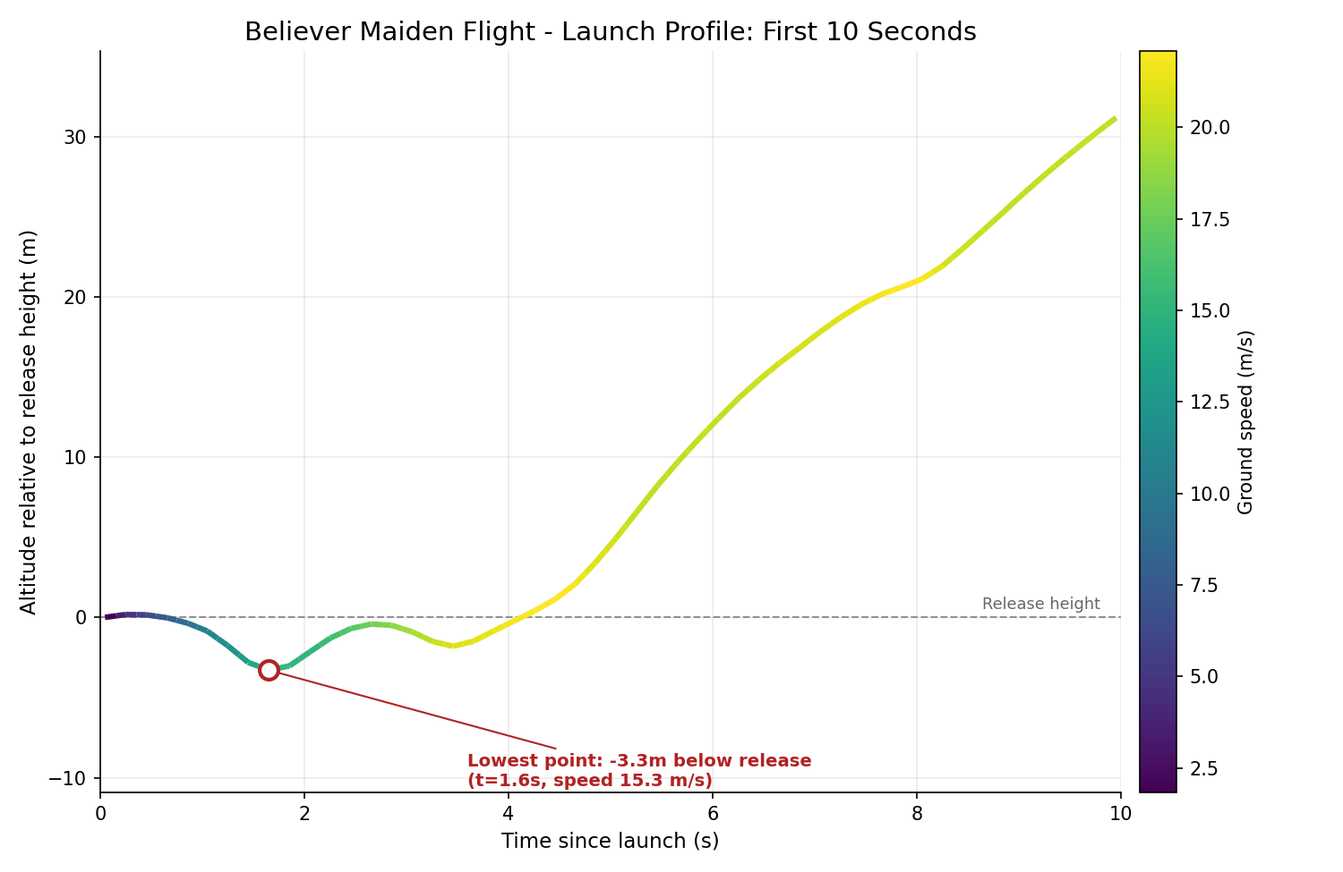
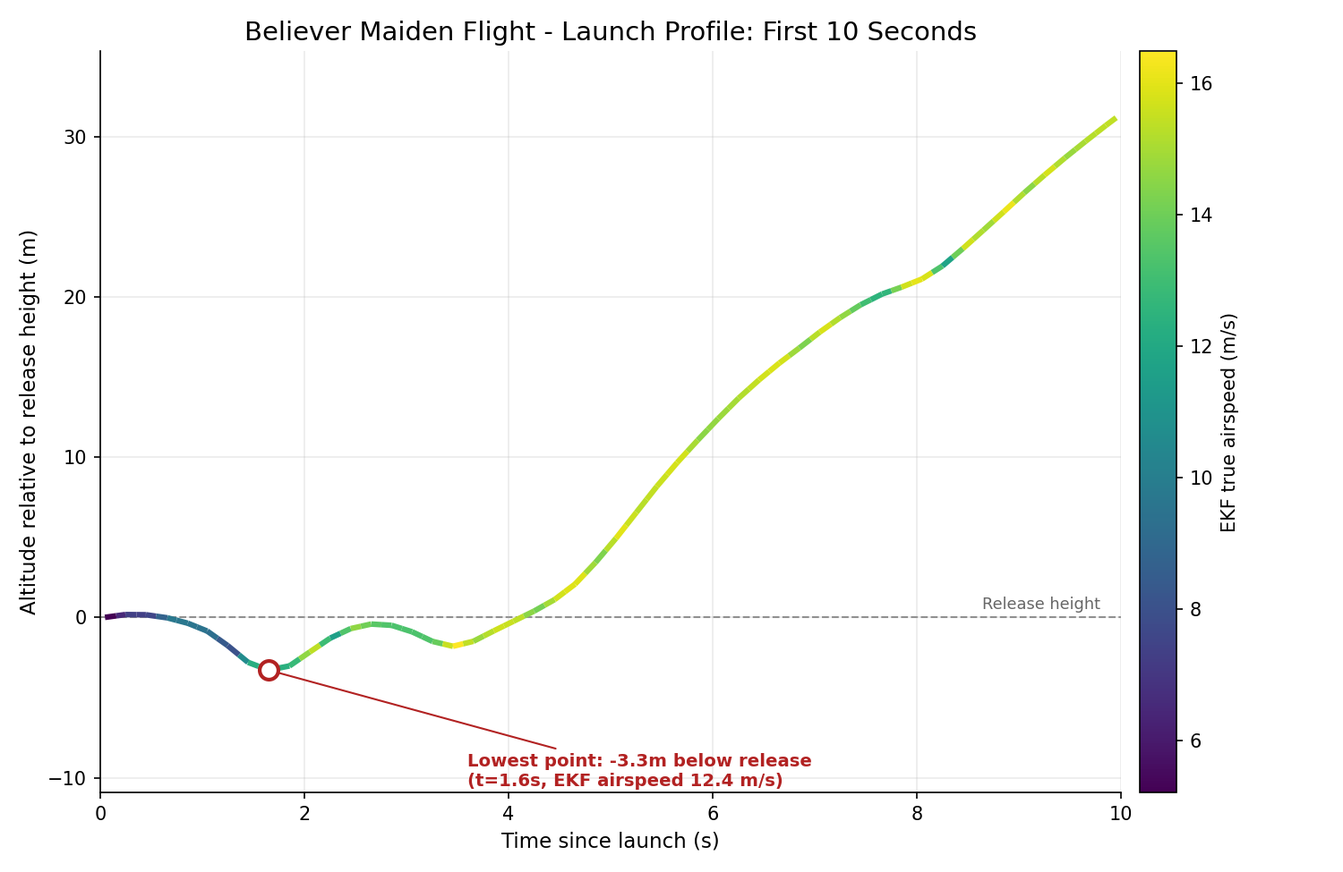
Rule out a cut airspeed line, fix the real cause, add capacity test as a blocker
Investigated Julian's hypothesis that a cut differential-pressure line
explained the maiden flight's near-total airspeed-invalid readings.
The raw sensor data rules it out: recomputed airspeed directly from
the raw pressure readings is physically sane for the entire flight,
with none of the near-zero/negative/stuck signature a cut or blocked
line would produce.

Traced the real cause against PX4's own source: the validator tripped
once at t=49.0s (16.4s after takeoff, likely its load-factor check
during the high-G pull-up recovering from the launch sag) and never
recovered because ASPD_FS_T_START was at PX4's own -1 default, which
disables in-flight re-enabling of the sensor entirely once it trips.
Decided to set it to 2s instead - documented in the parameter change
log as decided but not yet applied. Corrected the test report, open
items, and test plan, which had all called this a hardware fault
needing physical inspection.

Regenerated both launch-profile plots using EKF true airspeed instead
of ground speed, now that we know it was valid for the whole 10s
window and most of the 20s one - the 20s version marks exactly where
the validator latched invalid, tying the two findings together.

Also added PWR-06 (complete the battery capacity test, set
BAT1_CAPACITY) as a new critical flight-readiness blocker, per Julian,
recording the maiden flight's actual 3.92 Ah discharge as sizing
context.

diff --git a/docs/engineering/test-reports/2026-10-11-maiden-flight.md b/docs/engineering/test-reports/2026-10-11-maiden-flight.md
@@ -16,7 +16,7 @@ Per Julian's debrief: the launch itself was marginal (hand-launched from a hill,
 
 The flight's most important finding is operational, not aerodynamic: the GCS telemetry link (RFD900x) dropped out at least 15 times over the 24.8-minute flight, three of them longer than the 10-second data-link-loss failsafe timeout (`COM_DL_LOSS_T`). The aircraft launched with `NAV_DLL_ACT` already reverted to 0 (Disabled) rather than the 2 (Return) set on 2026-10-02 under RF-06 - confirmed directly from the log's embedded parameter set - which is why none of those dropouts triggered an unwanted RTL. Had RF-06's setting still been live, at least three automatic RTLs would very likely have fired mid-flight despite the pilot holding full manual RC control throughout. This is documented in full in `docs/operations/Pixhawk Parameter Backup/parameter-change-log.md`.
 
-A second significant finding: the airspeed sensor (differential pressure / pitot) reported invalid readings for almost the entire flight (`health_and_arming_checks` logged "Preflight Fail: Airspeed invalid" repeatedly, and only 2.9% of `airspeed_validated` samples fell in a physically plausible range). TECS-dependent modes that rely on airspeed (Altitude mode, the Cruise Efficiency Sweep's hands-off points) were likely operating on degraded or fallback airspeed estimates for this flight. Ground speed from GPS was used in this report instead, where airspeed data was needed.
+A second significant finding: `airspeed_validated` was invalid for almost the entire flight (only 2.9% of samples in a physically plausible range). This is not a sensor or pitot-line fault - the raw differential-pressure readings were physically sane for the whole flight - but a PX4 validator that latched the sensor as failed after one trip 16.4s after takeoff and, by default, never let it recover in flight (see Airspeed validator latched invalid below). TECS-dependent modes that rely on airspeed (Altitude mode, the Cruise Efficiency Sweep's hands-off points) were likely operating on degraded or fallback airspeed estimates for this flight regardless of the root cause. Ground speed from GPS was used in this report instead, where airspeed data was needed.
 
 The in-flight PID auto-tune (Phase D) was attempted twice and succeeded on the second attempt, committing new roll- and pitch-rate gains partway through the flight (see Findings).
 
@@ -55,9 +55,9 @@ Per Julian's debrief: the launch was hand-launched from a hill at the BNEMAC fie
 
 The log backs this up directly. Using the moment altitude first leaves the ground as t=0, the aircraft sagged to **3.3m below release height at t=1.6s**, recovered most of the way, sagged a second, shallower time (~1.8m) around t=3.5s, and only settled into a sustained climb from about t=4s:
 
-![Launch profile: altitude vs. time, coloured by ground speed, first 10 seconds](../../assets/test-plots/launch-profile-first-10s-2026-10-11.png)
+![Launch profile: altitude vs. time, coloured by EKF true airspeed, first 10 seconds](../../assets/test-plots/launch-profile-first-10s-2026-10-11.png)
 
-The dip coincides with the lowest ground speed of the window (15.3 m/s at the lowest point) - a real, measurable margin above stall during the few seconds right after release, not just a visual impression.
+The dip coincides with the lowest airspeed of the window - **12.4 m/s at the lowest point**, only 1.4 m/s above `FW_AIRSPD_STALL` (11 m/s). This window is entirely within the time the airspeed validator was still trusting the sensor (see Airspeed validator latched invalid below), so this is EKF-fused airspeed, not a ground-speed proxy - a real, measurably thin margin above stall during the few seconds right after release, not just a visual impression.
 
 The climb-rate figure below (about 1.0 m/s average from takeoff) is consistent with this account - a marginal, not comfortable, margin above stall during the initial climb-out. **Decision (Julian): future flights will use a launch dolly instead of a hand launch** - tracked in `context/open-items.md` and cross-referenced against the existing launch-dolly requirements document (`docs/engineering/requirements/launch-dolly-requirements.md`).
 
@@ -73,9 +73,15 @@ GPS ground speed (`vehicle_local_position` vx/vy) ranged from 0 (on the ground) 
 
 Pack voltage: 24.97V at arm, 22.99V at disarm (minimum 22.38V in flight), consistent with `BAT1_V_EMPTY` (3.2 V/cell x 6 = 19.2V) never being approached. Reported remaining charge fell from 100% to 74%. Peak current draw was 33.5A, mean 9.4A.
 
-### Airspeed sensor fault
+### Airspeed validator latched invalid - not a hardware fault
 
-`health_and_arming_checks` logged "Preflight Fail: Airspeed invalid" repeatedly throughout the flight (recurring alongside nearly every GCS-connection event, suggesting a persistent rather than momentary condition), and at t=48.9s the `airspeed_selector` explicitly warned: "Airspeed sensor failure detected. Return to launch (RTL) is advised." Only 215 of 7436 `airspeed_validated` samples (2.9%) fell in a physically plausible range (-1 to 40 m/s); the raw reported range included impossible negative values down to -6.7 m/s. This affects the reliability of any TECS-mediated mode (Altitude mode, hands-off points in Phase E) for this flight, and means Phase E's post-flight power-vs-airspeed analysis (test plan Section 3, Phase E) cannot be done reliably from this log's airspeed channel - GPS ground speed or a pitot-sensor check would be needed first. Flagged in `context/open-items.md`.
+`airspeed_validated` was invalid for almost the entire flight (only 215 of 7436 samples, 2.9%, in a physically plausible range), and at t=48.9s the `airspeed_selector` logged "Airspeed sensor failure detected. Return to launch (RTL) is advised." This looked at first like a sensor or pitot-line fault, but checking the raw differential-pressure sensor directly (not the processed/validated topic) rules that out: recomputing airspeed straight from the raw pressure readings gives physically sane values (13-24 m/s) for the entire flight, with no negative, zero, or stuck readings - the kind of signature a cut or blocked line would produce. The sensor hardware was working the whole time.
+
+What actually happened: `airspeed_sensor_measurement_valid` flips false exactly once, at **t=49.0s** (16.4s after takeoff), and never recovers for the remaining ~1400s. At that moment body-frame vertical acceleration was swinging up to about 2.4g while indicated airspeed was only 15-17 m/s - not far above the 11 m/s stall speed - during the hard pull-up recovering from the launch sag (see Launch above). That combination is exactly what PX4's `check_load_factor()` validator check is designed to catch (`AirspeedValidator.cpp`), making it the likely trigger. It never got a chance to clear afterward because `ASPD_FS_T_START` was at **-1**, PX4's own default - documented as disabling in-flight re-enabling of the sensor entirely once it's marked invalid.
+
+**Decision: `ASPD_FS_T_START` changed to 2s** so a future transient trip can clear itself in flight instead of latching for the rest of the flight - not yet applied to the physical FC, see `docs/operations/Pixhawk Parameter Backup/parameter-change-log.md`.
+
+This still affects the reliability of any TECS-mediated mode (Altitude mode, hands-off points in Phase E) and Phase E's post-flight power-vs-airspeed analysis for *this* flight - GPS ground speed was used instead where airspeed data was needed. Flagged in `context/open-items.md`.
 
 ### GCS data-link dropouts and the `NAV_DLL_ACT` reversal
 
@@ -169,9 +175,9 @@ Not from the log - found by Julian during post-flight inspection of the airframe
 
 ## What This Does and Does Not Show
 
-**Shown:** the airframe flew, climbed, and was recovered without incident across a 24.8-minute flight, despite a marginal hill launch; Position Hold, Stabilized, Acro, and Mission modes were all exercised; PID auto-tune completed successfully on its second attempt and measurably improved rate tracking with no saturation; the `NAV_DLL_ACT` reversal is justified by this flight's own GCS link behaviour and by a GCS laptop failure on the day; the uploaded mission flew without rejection or fault; the reported roll-authority asymmetry is real and matches the pilot's account, and is not a control-allocation artifact (no differential thrust is configured on this airframe in any mode); Stabilized mode's throttle path is confirmed identical to Manual/Acro.
+**Shown:** the airframe flew, climbed, and was recovered without incident across a 24.8-minute flight, despite a marginal hill launch; Position Hold, Stabilized, Acro, and Mission modes were all exercised; PID auto-tune completed successfully on its second attempt and measurably improved rate tracking with no saturation; the `NAV_DLL_ACT` reversal is justified by this flight's own GCS link behaviour and by a GCS laptop failure on the day; the uploaded mission flew without rejection or fault; the reported roll-authority asymmetry is real and matches the pilot's account, and is not a control-allocation artifact (no differential thrust is configured on this airframe in any mode); Stabilized mode's throttle path is confirmed identical to Manual/Acro; the airspeed sensor hardware itself was working for the entire flight - the near-total "invalid" readings were a PX4 validator config issue, not a pitot/line fault.
 
-**Not shown:** a reliable Phase E (Cruise Efficiency Sweep) power-vs-airspeed dataset (airspeed sensor fault); a deliberate Phase J (Return to Home via CH10) test; isolated climb-rate, glide, or stall-speed figures broken out by phase (not separable from `nav_state` alone - would benefit from the pilot's own phase timing notes); the cause of the t=574.1s critical-failure flag; root cause of the airspeed sensor fault, the recurring GCS dropouts, or the PDB mount/connector issue (not determinable from this log); confirmation of actual per-motor thrust balance (no per-motor current/RPM telemetry exists, and the right motor's bearing condition at the time of this flight is unknown).
+**Not shown:** a reliable Phase E (Cruise Efficiency Sweep) power-vs-airspeed dataset (airspeed validator latched invalid for almost the whole flight); a deliberate Phase J (Return to Home via CH10) test; isolated climb-rate, glide, or stall-speed figures broken out by phase (not separable from `nav_state` alone - would benefit from the pilot's own phase timing notes); the cause of the t=574.1s critical-failure flag; root cause of the recurring GCS dropouts or the PDB mount/connector issue (not determinable from this log); confirmation of actual per-motor thrust balance (no per-motor current/RPM telemetry exists, and the right motor's bearing condition at the time of this flight is unknown).
 
 ## Outstanding
 
@@ -180,7 +186,7 @@ Not from the log - found by Julian during post-flight inspection of the airframe
 - Right motor bearing needs replacing/rectifying before the next flight.
 - PDB mount needs reinforcing and its connector redoing.
 - Per-motor thrust balance still cannot be verified in flight (no current/RPM instrumentation per motor) - worth prioritising now that a bearing fault has been found on one side.
-- Airspeed sensor (pitot/differential pressure) needs inspection before the next flight.
+- `ASPD_FS_T_START` (decided: -1 -> 2s) needs applying to the physical FC before the next flight - no airspeed sensor hardware inspection is needed, the raw sensor read correctly throughout.
 - Phase J (Return to Home, CH10) should be deliberately exercised on a future flight - not yet tested.
 - Root cause of the repeated GCS link dropouts (RFD900x) not investigated - antenna, range, and RF environment at BNEMAC are all plausible candidates.
 - The t=574.1s `fd_critical_failure` flag and the t=748.8s GPS spoofing warning are noted but not root-caused; revisit if either recurs.

diff --git a/context/CHANGELOG.md b/context/CHANGELOG.md
@@ -3,6 +3,8 @@
 All notable changes to the Believer project repo are logged here, most recent first.
 
 ## 2026-10-11
+- Investigated Julian's hypothesis that a cut differential-pressure line explained the maiden flight's near-total "airspeed invalid" readings - **ruled it out**. The raw differential-pressure sensor data was physically sane for the entire flight (recomputing airspeed from it directly gives 13-24 m/s throughout, no negative/zero/stuck readings - the signature a cut or blocked line would produce). Traced the real cause using PX4's own source (`AirspeedValidator.cpp`, `airspeed_selector_params.yaml`): the validator tripped once at t=49.0s, 16.4s after takeoff, likely its `check_load_factor()` check during the high-G pull-up recovering from the launch sag, and never recovered because `ASPD_FS_T_START` was at PX4's own -1 (disabled) default, which is documented as disabling in-flight re-enabling entirely. Decided to change it to 2s so a future trip can clear itself rather than latching for the whole flight - not yet applied to the physical FC. Corrected `docs/engineering/test-reports/2026-10-11-maiden-flight.md`, `context/open-items.md`, and `docs/operations/maiden-flight-test-plan.md`, which had all called this a sensor/hardware fault.
+- Added PWR-06 (complete the battery capacity test and set `BAT1_CAPACITY`) to `docs/project/build-checklist.md` as a new critical flight-readiness blocker, per Julian - ties into the same flight's finding that PX4's reported battery percentage is pure linear voltage interpolation with no capacity set, likely optimistic through the middle of a Li-ion discharge. Also recorded the maiden flight's actual discharge (3.92 Ah, from PX4's own coulomb counter, cross-checked by manually integrating the logged current to within 0.5%) as context for sizing the test.
 - Built a Mission-mode planned-vs-flown plot and discovered the mission was replanned at the field the day of the flight - the repo's `maiden-mission.plan` backup (and the test plan's Section 5) describe the old mission. Recovered the real, actually-uploaded mission (28 items, 50m relative altitude, a genuine landing sequence - not the backed-up 32 items/40m/no-landing-item) directly from the Pixhawk's `dataman` file on the SD card, by fetching PX4's own source for the binary format and validating the parse against the flight's live telemetry (file size matched exactly; every waypoint matched to sub-metre precision). Added the finding to `docs/engineering/test-reports/2026-10-11-maiden-flight.md` and flagged regenerating the mission/geofence backups as a new open item - not done yet, pending Julian's go-ahead.
 - Replaced the plot's basemap with Julian's own Nearmap export (15cm GSD georeferenced imagery of BNEMAC) instead of free Esri tiles, fixed overlapping waypoint labels (nearest-neighbour label repulsion instead of simple radial offset), trimmed the plot to waypoints 1-20, and moved the legend below the plot so it no longer crops the flight path. Saved the Nearmap source imagery into a new `docs/assets/site-imagery/` folder for reuse on future test reports at the same field.
 - Reorganised `docs/assets/` from a flat 28-file folder into subfolders (`component-photos/`, `diagrams/`, `config-screenshots/`, `test-plots/`, `flight-footage/`) via `git mv`, and updated every live markdown reference across 9 files (`docs/operations/manual.md`, `docs/operations/maiden-flight-test-plan.md`, `docs/engineering/ICD.md`, `docs/engineering/analysis/powertrain-performance-model.md`, and five test reports) to the new paths - verified every reference resolves before committing. Added Julian's launch video (`Launch.m4v`, dropped in the repo root) as `docs/assets/flight-footage/maiden-flight-launch-2026-10-11.m4v`, embedded in the maiden-flight test report.

diff --git a/context/open-items.md b/context/open-items.md
@@ -38,7 +38,7 @@ Information gaps still to confirm with the user. Resolved items (Telem_1 protoco
 - [ ] Winding resistance and insulation testing needs proper equipment: a multimeter read 24 to 25 ohms phase-to-phase on both motors (2026-09-27), about 260x the 92 mOhm datasheet figure and not a valid measurement (see the failure report). A four-wire milliohm meter and an insulation resistance tester (megohmmeter, phase to case) are needed to actually check the motors. Julian has no access to either. Near-term alternatives: a phase-to-case check with the multimeter on its highest resistance range (catches a gross breakdown), and a no-load current comparison per motor and ESC (propeller off, motor secured, low fixed throttle steps, aircraft current sensor, inline blade fuse), or borrowing the instruments from a QUT electrical or mechatronics workshop
 - [ ] Validate the powertrain performance model against a restrained in-aircraft test (thrust by scale, logged pack current, temperature) and later flight logs: it is calibrated on static stand data only and to about 33 A winding current (`docs/engineering/analysis/powertrain-performance-model.md`)
 - [ ] Confirm the brand of the 12x6E stand propeller (marking on the hub or blade): the 2026-09-06 invoice lists a Gemfan nylon "APC" propeller, which may be a copy of the APC pattern, so APC's tables used in the powertrain model may not describe it exactly (`docs/engineering/analysis/powertrain-performance-model.md`)
-- [ ] Maiden flight (2026-10-11): the airspeed sensor (MS4525DO) reported invalid readings for almost the entire flight (only 2.9% of `airspeed_validated` samples physically plausible; "Airspeed sensor failure detected" logged at t=48.9s) - needs physical inspection (pitot tube blockage/leak, tubing, wiring) before the next flight. See `docs/engineering/test-reports/2026-10-11-maiden-flight.md`
+- [ ] Maiden flight (2026-10-11): `airspeed_validated` was invalid for almost the entire flight (only 2.9% of samples physically plausible). **Not a hardware fault** - the raw differential-pressure sensor itself read physically sane airspeeds (13-24 m/s, no negative/zero/stuck readings) for the whole flight when checked directly; PX4's validator tripped once at t=49.0s (likely the `check_load_factor()` check, during the high-G pull-up recovering from the launch sag) and then never re-validated it because `ASPD_FS_T_START` was at PX4's -1 (disabled) default. Fixed by setting `ASPD_FS_T_START` = 2s (see `docs/operations/Pixhawk Parameter Backup/parameter-change-log.md`) - **decided, not yet applied to the physical FC**, apply before the next flight. See `docs/engineering/test-reports/2026-10-11-maiden-flight.md`
 - [ ] Maiden flight (2026-10-11): Phase J (Return to Home, CH10) was not deliberately exercised - no `AUTO_RTL` transition appears anywhere in the flight log. Test on a future flight. See `docs/engineering/test-reports/2026-10-11-maiden-flight.md`
 - [ ] Maiden flight (2026-10-11): the RFD900x GCS telemetry link dropped out at least 15 times over the 24.8-minute flight, three exceeding the 10s data-link-loss timeout (39.8s, 27.9s, 17.0s) - root cause (antenna, range, RF environment at BNEMAC) not investigated. This is why `NAV_DLL_ACT` was reverted to 0/Disabled (see `docs/operations/Pixhawk Parameter Backup/parameter-change-log.md`); the underlying link reliability issue itself is still open
 - [ ] Maiden flight (2026-10-11): a brief `failsafe_flags.fd_critical_failure` flag (2 samples, first at t=574.1s) and a one-off GPS spoofing warning (t=748.8s) were logged with no apparent consequence - neither root-caused. Revisit if either recurs. See `docs/engineering/test-reports/2026-10-11-maiden-flight.md`

diff --git a/context/project-notes.md b/context/project-notes.md
@@ -601,4 +601,12 @@ Also explained a point of confusion: the flown track's long diagonal transit leg
 
 Separately, swapped the plot's basemap from free Esri tiles to Julian's own Nearmap export (15cm GSD, georeferenced JPEG + world file, downloaded via MapBrowser's Basic/Single Image export with "Include georeferenced file" checked) - sharp enough to see the actual mown pattern in the grass at BNEMAC. Verified the georeferencing by checking all mission/flight coordinates fall inside the image's computed extent before trusting it. Saved the source imagery into a new `docs/assets/site-imagery/` folder per Julian's request, for reuse on future test reports at the same field, rather than treating it as a one-off plot input.
 
+## Airspeed "Fault" Was a Validator Config Issue, Not a Cut Line - 2026-10-11
+
+Julian suspected a cut differential-pressure line explained the maiden flight's near-total airspeed-invalid readings, and asked whether the data supported it. Checked the raw sensor data directly rather than just the processed/validated topic, since a cut or blocked line should show up as near-zero, negative, or stuck raw readings - it didn't. Recomputing airspeed straight from the raw differential pressure gave physically sane values (13-24 m/s) for the entire flight. The sensor hardware was fine the whole time.
+
+Traced the actual cause through PX4's own source (fetched `AirspeedValidator.cpp` and `airspeed_selector_params.yaml` rather than guess at the validation logic): the validator's `airspeed_sensor_measurement_valid` flag flips false exactly once, at t=49.0s, 16.4s after takeoff - right when body-frame vertical acceleration was swinging up to ~2.4g during the hard pull-up recovering from the launch sag, with airspeed only 15-17 m/s (not far above the 11 m/s stall speed). That's exactly the condition PX4's `check_load_factor()` check is built to catch. It never recovered for the rest of the ~1400s flight because `ASPD_FS_T_START` was at -1, PX4's own default value, documented as disabling in-flight re-enabling of the sensor entirely once it trips once.
+
+Decided to set `ASPD_FS_T_START` to 2s so a future transient trip can clear itself rather than latching for the whole flight - recorded in `docs/operations/Pixhawk Parameter Backup/parameter-change-log.md` as decided but not yet applied to the physical FC. Corrected the earlier "faulty airspeed sensor" framing in `docs/engineering/test-reports/2026-10-11-maiden-flight.md`, `context/open-items.md`, and `docs/operations/maiden-flight-test-plan.md` - all three had called this a hardware fault needing physical inspection, which is no longer accurate. Also added PWR-06 (`docs/project/build-checklist.md`) as a new critical blocker for completing the battery capacity test and setting `BAT1_CAPACITY`, per Julian, and recorded the maiden flight's actual discharge (3.92 Ah via PX4's own coulomb counter) as sizing context for that test.
+
 See [open-items.md](open-items.md) for what's still missing.

diff --git a/docs/project/build-checklist.md b/docs/project/build-checklist.md
@@ -33,6 +33,7 @@ Future capability work (payload, autonomy) that is not required for current flig
 | Propulsion | PROP-12: Fit contra-rotating propellers | Not started |
 | Propulsion | PROP-13: Rectify right motor bearing fault | Not started |
 | Electrical power | PWR-05: Reinforce PDB mount and redo its connector | Not started |
+| Electrical power | PWR-06: Complete the battery capacity test and set `BAT1_CAPACITY` | Not started |
 | Control | CTL-04: Configure tri-rate switch-selectable deflection | In progress |
 | Control | CTL-08: Verify and correct full-Manual stick-to-surface scaling | For review |
 
@@ -234,6 +235,21 @@ Follow-up verification for the UBEC installed under PWR-01 (2026-08-19). Does no
 Recommended by Peter Spink (TMAC, 2026-07-10).
 
 </details>
+
+### PWR-06 - Complete the battery capacity test and set `BAT1_CAPACITY`
+
+- [ ] **Status:** Not started
+- **Priority:** CRITICAL
+- **Depends on:** None
+
+**Scope**
+- Complete a proper discharge capacity test on the custom 6S4P Li-ion pack (24 NCR20700A cells) - the 2026-09-26 attempt ended at 4.2 Ah discharged when the left motor failed (unrelated to the battery itself) and was never repeated.
+- Set `BAT1_CAPACITY` from the measured result. It is currently -1 (unset), which was confirmed during the maiden flight analysis to matter more than previously treated as a nice-to-have: with capacity unset, PX4's reported battery percentage is a pure linear interpolation between `BAT1_V_EMPTY`/`BAT1_V_CHARGED` per cell - no chemistry model, no coulomb counting - which is a poor fit for Li-ion's flat-then-steep discharge curve and likely reads over-optimistic through the middle of a flight before dropping fast near empty. Setting `BAT1_CAPACITY` switches PX4 onto coulomb counting (current integration), which doesn't depend on curve shape and is a real improvement, not just a nice-to-have.
+- The maiden flight itself discharged 3.92 Ah (PX4's own coulomb counter, `battery_status.discharged_mah`, which runs regardless of whether `BAT1_CAPACITY` is set - independently cross-checked by manually integrating the logged current, 3.90 Ah) - useful context for sizing the capacity test, not a substitute for it.
+
+**Acceptance criteria**
+- Capacity test completed under controlled conditions (known load, safe cutoff voltage), result logged as a dated test report.
+- `BAT1_CAPACITY` set from the measured result and confirmed applied via a parameter export.
 
 ### PWR-05 - Reinforce PDB mount and redo its connector
 

diff --git a/docs/operations/Pixhawk Parameter Backup/parameter-change-log.md b/docs/operations/Pixhawk Parameter Backup/parameter-change-log.md
@@ -54,6 +54,7 @@ Values reflect `believer-parameters.params` (refreshed 2026-10-11, this time rec
 | Parameter | Value | Notes |
 |---|---|---|
 | `SENS_EN_MS4525DO` | 1 (Enabled) | Enables the MS4525DO differential pressure airspeed sensor driver. |
+| `ASPD_FS_T_START` | 2 (Decided, not yet applied) | Airspeed-sensor re-enable delay after its validator checks pass again. PX4's default, -1, disables in-flight re-enabling entirely once the sensor is marked invalid. The maiden flight (2026-10-11) tripped this: the raw differential-pressure sensor itself read physically sane airspeeds for the entire flight, but PX4's validator flagged it invalid once at t=49.0s (16.4s after takeoff, during the high-G pull-up recovering from the launch sag - `check_load_factor()` in `AirspeedValidator.cpp` is the likely trigger) and, with `ASPD_FS_T_START` at its -1 default, never re-validated it for the remaining ~1400s of the flight. Changed to 2 (seconds) so a future transient trip can clear itself in flight rather than latching for the whole flight. See `docs/engineering/test-reports/2026-10-11-maiden-flight.md`. |
 
 ## GPS
 

diff --git a/docs/operations/maiden-flight-test-plan.md b/docs/operations/maiden-flight-test-plan.md
@@ -135,4 +135,4 @@ Both loiter radii are independent parameters - Hold mode and Return mode could b
 
 ## 7. Open Items
 
-None remaining in this plan itself as of 2026-10-10. The maiden flight (2026-10-11) is now complete - see `docs/engineering/test-reports/2026-10-11-maiden-flight.md` for the phase-by-phase result and `context/open-items.md` for findings that came out of it (airspeed sensor fault, Phase J not deliberately exercised, and others).
+None remaining in this plan itself as of 2026-10-10. The maiden flight (2026-10-11) is now complete - see `docs/engineering/test-reports/2026-10-11-maiden-flight.md` for the phase-by-phase result and `context/open-items.md` for findings that came out of it (airspeed validator config needing a fix, Phase J not deliberately exercised, and others).
